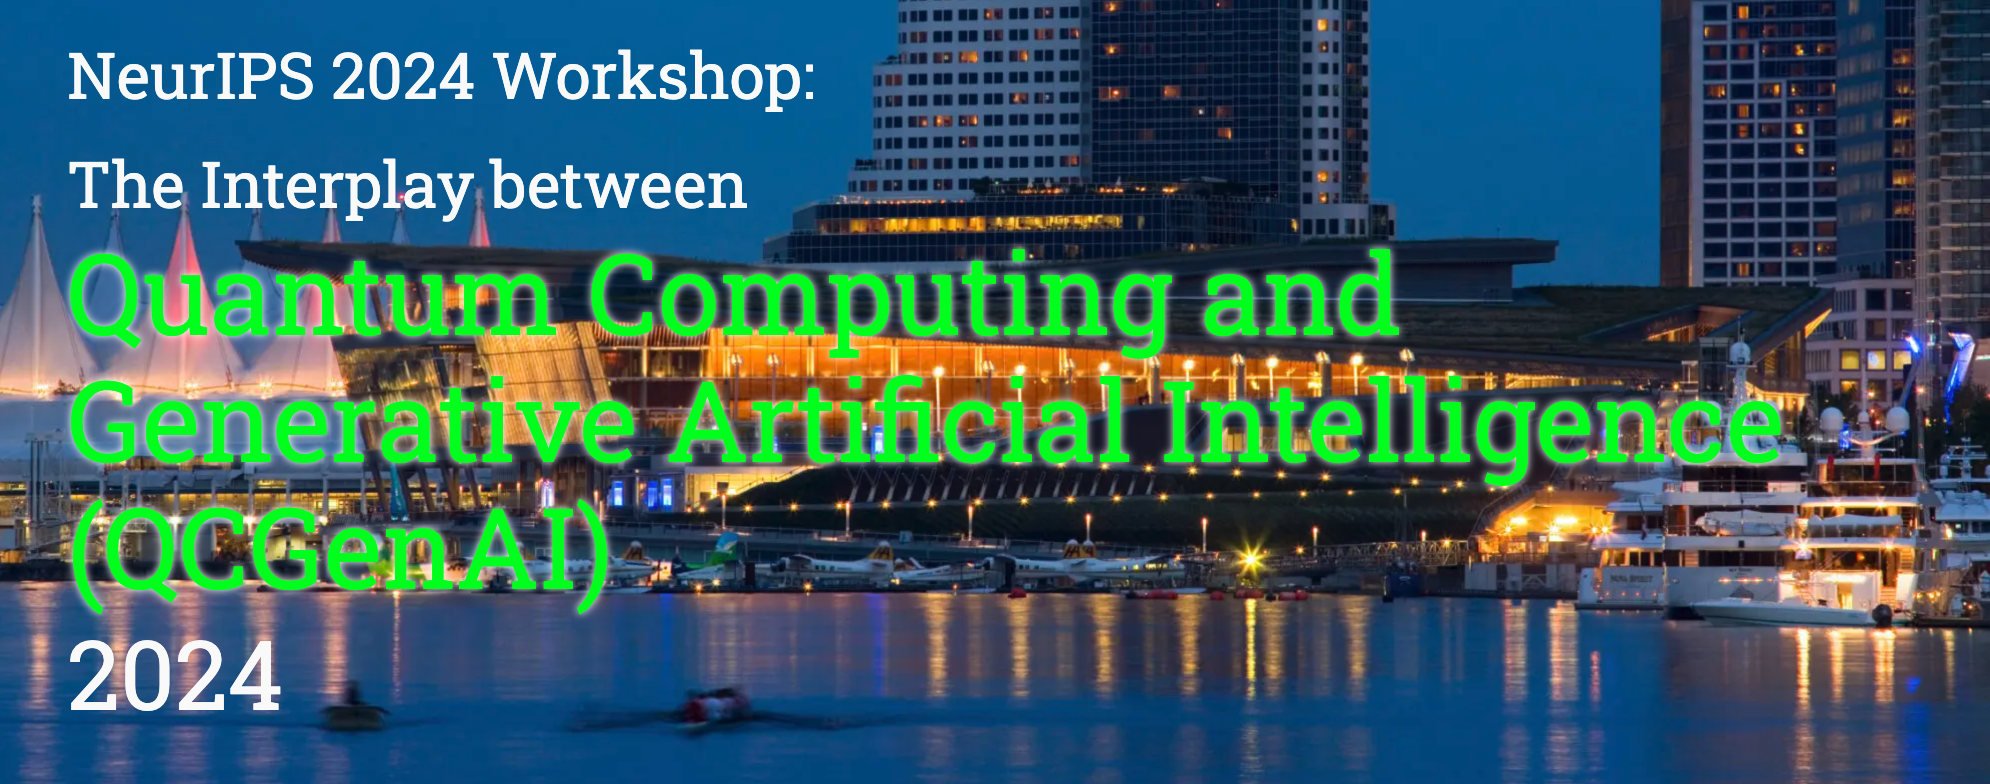
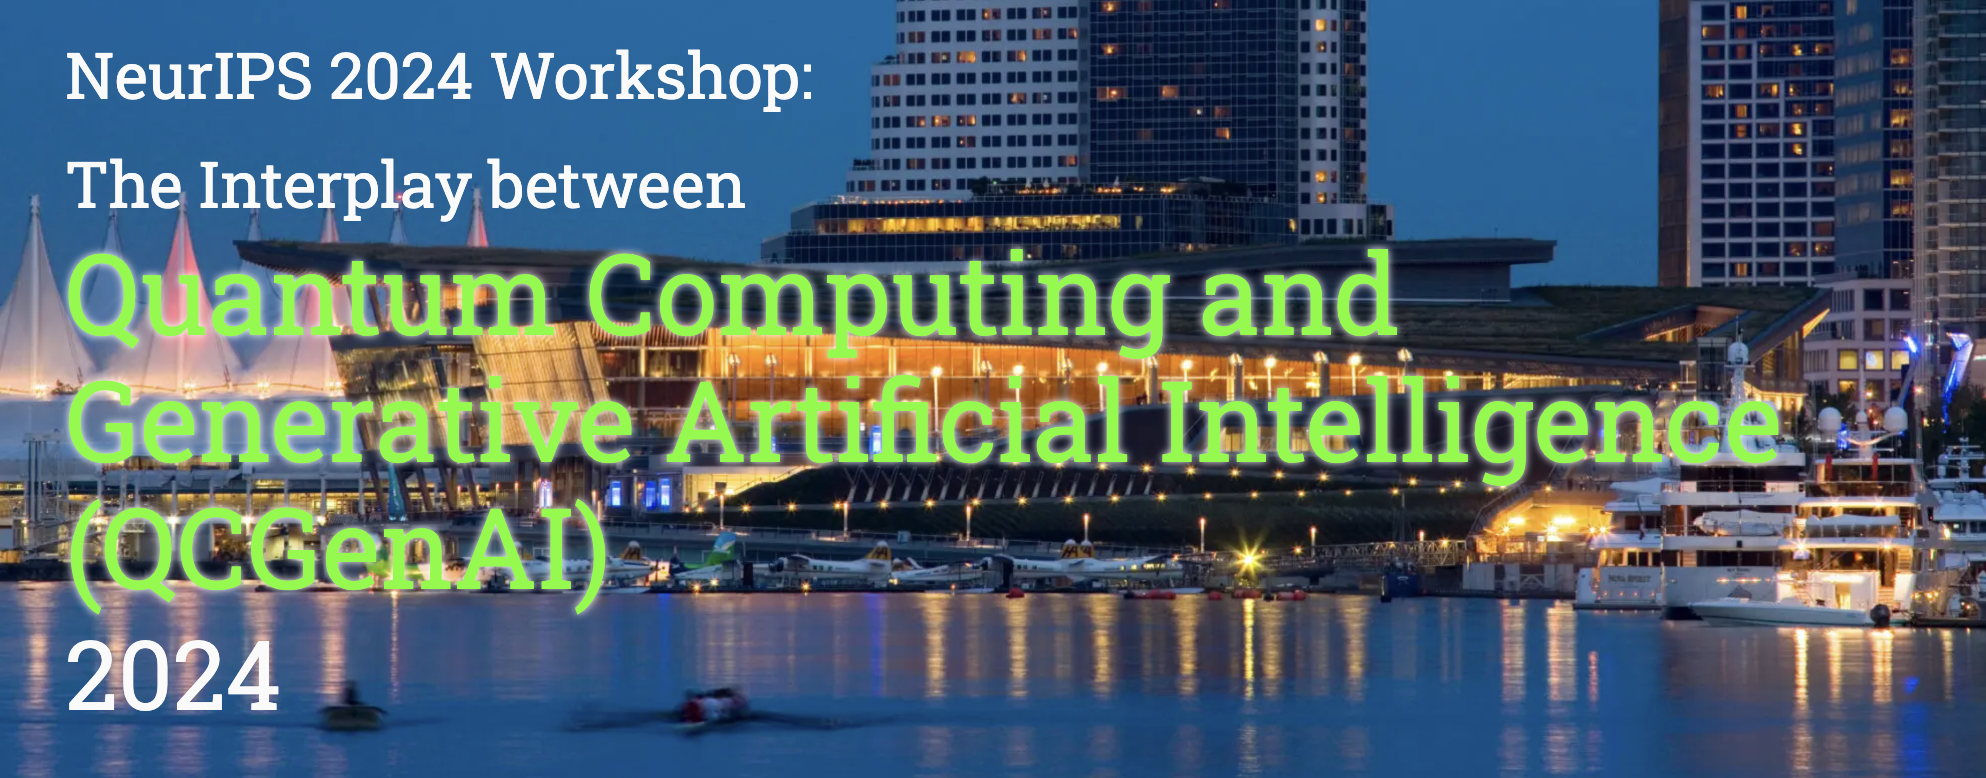
NeurIPS 2024 QML ver 1.0

diff --git a/assets/main.css b/assets/main.css
@@ -87,8 +87,8 @@ th,td{
 
 /* Conference Title Logo */
 .title1{font-size: 2em; color: #fafafa;} 
-.title2{font-size: 3.5em; color: #00ff1e; text-shadow: 0px 0px 4px #fafafa;}
-.title3{font-size: 3.5em; color: #00ff1e; text-shadow: 0px 0px 4px #fafafa;}
+.title2{font-size: 3.5em; color: #6DFC16; text-shadow: 0px 0px 4px #fafafa;}
+.title3{font-size: 3.5em; color: #6DFC16; text-shadow: 0px 0px 4px #fafafa;}
 .year{font-size: 3em; color: #fafafa;}
 
 /* Navigation Links (Home, Registration, etc) */

diff --git a/index.html b/index.html
@@ -31,7 +31,7 @@
     <div class="banner">
         <img src="assets/QCGenAI.png" alt="Workshop Banner" style="width: 100%">
         <div class="top-left">
-        <!-- <span class="title1">NeurIPS 2024 Workshop:</span> <br>
+<!--         <span class="title1">NeurIPS 2024 Workshop:</span> <br>
         <span class="title1">The Interplay between</span> <br>
         <span class="title2">Quantum Computing and</span> <br>
         <span class="title3">Generative Artificial Intelligence</span> <br>
